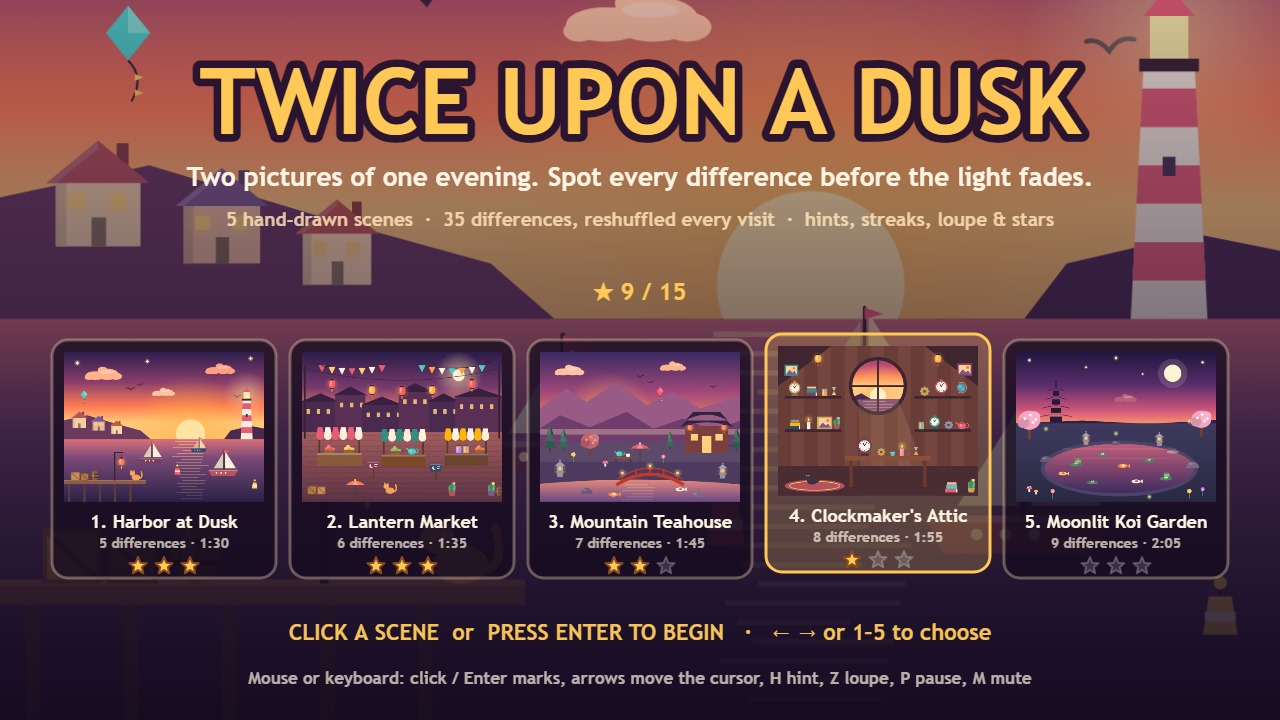
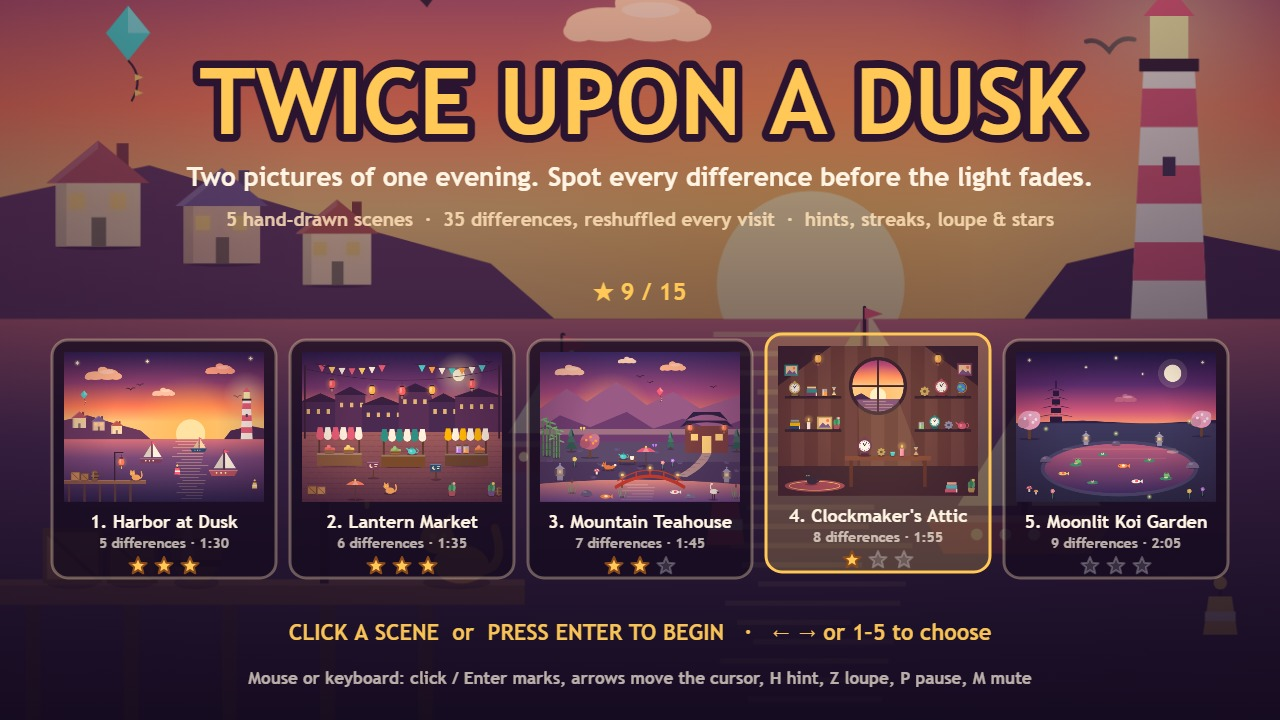
v2: denser teahouse scene (bamboo, fox, crane, reeds, butterflies, stone path), ground shadows, print vignette, softer hint ring, filled find marks

diff --git a/game/src/scenes.js b/game/src/scenes.js
@@ -46,6 +46,21 @@ function waterShimmer(c, x, top, bottom, color) {
   }
 }
 
+/** Little fans of grass blades at the given points (scenery: the same in both pictures). */
+function grassTufts(c, points, color = '#6d5a86') {
+  c.strokeStyle = color;
+  c.lineWidth = 1.6;
+  c.lineCap = 'round';
+  for (const [x, y] of points) {
+    c.beginPath();
+    for (let i = -2; i <= 2; i += 1) {
+      c.moveTo(x + i * 2, y);
+      c.lineTo(x + i * 4, y - 8 + Math.abs(i));
+    }
+    c.stroke();
+  }
+}
+
 function paintHarbor(c) {
   skyGradient(c, [[0, '#2d1f4f'], [0.35, '#8c3f6b'], [0.62, '#ff7b54'], [0.8, '#ffc778']], 262);
   sunDisc(c, 380, 246, 44, '#ffe3a3', '#ffb347');
@@ -139,6 +154,18 @@ function paintTeahouse(c) {
   c.lineTo(0, 450);
   c.fill();
   waterShimmer(c, 300, 392, 446, '#ffe2b8');
+  // Stone path from the teahouse door down to the bridge.
+  c.fillStyle = '#b48a8a';
+  c.beginPath();
+  c.moveTo(486, 304);
+  c.quadraticCurveTo(470, 340, 410, 372);
+  c.lineTo(440, 376);
+  c.quadraticCurveTo(500, 344, 514, 304);
+  c.closePath();
+  c.fill();
+  c.fillStyle = 'rgba(60,30,60,0.25)';
+  for (let i = 0; i < 6; i += 1) c.fillRect(492 - i * 15, 312 + i * 11, 18, 2);
+  grassTufts(c, [[30, 330], [120, 300], [180, 340], [230, 296], [300, 352], [350, 304], [420, 336], [560, 336], [590, 360], [160, 380]]);
   // The teahouse on the right: two curved roofs and a warm doorway.
   c.fillStyle = '#7a3f3f';
   c.fillRect(436, 222, 128, 82);
@@ -323,20 +350,25 @@ export function buildScene(id) {
       ] };
     case 'teahouse':
       return { paint: paintTeahouse, props: [
-        P('cloud', 90, 70, 0.8, '#ffc2a0'), P('cloud', 400, 56, 0.7, '#ffb38a'),
+        P('cloud', 90, 70, 0.8, '#ffc2a0'), P('cloud', 400, 56, 0.7, '#ffb38a'), P('cloud', 262, 34, 0.5, '#ffd0b0'),
         P('bird', 300, 80, 0.9, '#3a2233'), P('bird', 330, 96, 0.7, '#3a2233'), P('bird', 520, 110, 0.8, '#3a2233'),
         P('kite', 360, 150, 0.8, '#ff5d73'),
-        P('pine', 30, 300, 0.9, '#2f5a4f'), P('pine', 70, 296, 0.75, '#376a5a'), P('pine', 590, 300, 0.8, '#2f5a4f'),
-        P('pine', 390, 292, 0.6, '#376a5a'),
-        P('tree', 150, 314, 0.9, '#c2617a', '#ff9f43'),
+        P('bamboo', 20, 312, 1.0, '#5f9a5a'), P('bamboo', 50, 318, 0.82, '#6aa860'),
+        P('pine', 94, 300, 0.8, '#2f5a4f'), P('pine', 590, 300, 0.8, '#2f5a4f'), P('pine', 392, 292, 0.6, '#376a5a'),
+        P('tree', 150, 318, 0.95, '#c2617a', '#ff9f43'),
+        P('butterfly', 128, 236, 1.0, '#ffd166'), P('butterfly', 344, 286, 0.9, '#c77dff'),
         P('lantern', 450, 244, 0.75, '#ff7b54', '#ffd166'), P('lantern', 552, 244, 0.75, '#ff7b54', '#ffd166'),
-        P('bench', 250, 330, 1.0, '#8a4f3a'), P('teapot', 238, 314, 0.7, '#4ecdc4'), P('cup', 264, 316, 0.9, '#fff1dc'),
-        P('parasol', 300, 334, 1.1, '#e85d75'),
-        P('stoneLantern', 60, 376, 1.0, '#9a8fa8'), P('stoneLantern', 548, 380, 0.9, '#9a8fa8'),
-        P('bridge', 330, 404, 1.15, '#c0392b'),
-        P('rock', 140, 426, 1.0, '#6a5a7a'), P('rock', 470, 436, 0.9, '#7a6a8a'),
-        P('koi', 220, 436, 1.0, '#ff8c42', '#fff4e3'), P('koi', 420, 420, 0.9, '#fff4e3', '#ff5d5d'),
-        P('flower', 100, 330, 1.0, '#ffd166'), P('flower', 370, 334, 0.9, '#ff8fab'), P('mushroom', 196, 344, 1.0, '#e85d75'),
+        P('fox', 204, 356, 0.95, '#e8783c'),
+        P('bench', 262, 338, 1.0, '#8a4f3a'), P('teapot', 250, 322, 0.7, '#4ecdc4'), P('cup', 276, 324, 0.9, '#fff1dc'),
+        P('parasol', 318, 344, 1.1, '#e85d75'),
+        P('flower', 104, 344, 1.0, '#ffd166'), P('flower', 368, 352, 0.9, '#ff8fab'), P('flower', 398, 344, 0.8, '#c77dff'),
+        P('mushroom', 170, 368, 1.0, '#e85d75'),
+        P('stoneLantern', 60, 386, 1.0, '#9a8fa8'), P('stoneLantern', 560, 392, 0.9, '#9a8fa8'),
+        P('bridge', 330, 410, 1.15, '#c0392b'),
+        P('reeds', 96, 424, 1.0, '#7aa060'), P('reeds', 246, 436, 0.9, '#7aa060'), P('reeds', 588, 438, 1.0, '#7aa060'),
+        P('crane', 520, 444, 0.95, '#fff4e3'),
+        P('rock', 140, 432, 1.0, '#6a5a7a'), P('rock', 450, 440, 0.9, '#7a6a8a'),
+        P('koi', 196, 442, 1.0, '#ff8c42', '#fff4e3'), P('koi', 404, 428, 0.9, '#fff4e3', '#ff5d5d'),
       ] };
     case 'attic':
       return { paint: paintAttic, props: [

diff --git a/game/src/props.js b/game/src/props.js
@@ -476,6 +476,75 @@ export const KINDS = {
       glow(c, 0, -5, 9, p.color, 0.8);
       ellipse(c, 0, -5, 1.8, 1.8, '#fffbe0');
     } },
+  bamboo: { w: 34, h: 116, detail: 'top leaves',
+    draw(c, p) {
+      const stems = [[-10, 112], [0, 116], [10, 104]];
+      stems.forEach(([x, h], i) => {
+        box(c, x - 2.5, -h, 5, h, i === 1 ? p.color : shade(p.color, -0.12));
+        for (let y = -20; y > -h; y -= 22) box(c, x - 3.5, y, 7, 2, shade(p.color, -0.3));
+      });
+      c.fillStyle = shade(p.color, 0.15);
+      const leaf = (x, y, dir) => {
+        c.beginPath();
+        c.ellipse(x + dir * 9, y, 10, 3, dir * 0.35, 0, Math.PI * 2);
+        c.fill();
+      };
+      leaf(-10, -70, -1); leaf(10, -60, 1); leaf(0, -88, 1);
+      if (p.detail) { leaf(0, -110, -1); leaf(-10, -104, 1); leaf(10, -98, 1); }
+    } },
+  crane: { w: 36, h: 56, detail: 'red crown', flips: true,
+    draw(c, p) {
+      line(c, -2, 0, -3, -20, '#3a2233', 1.6);
+      line(c, 4, 0, 3, -20, '#3a2233', 1.6);
+      ellipse(c, 2, -26, 13, 8, p.color);
+      poly(c, [10, -28, 20, -22, 12, -22], '#3a2233');
+      c.strokeStyle = p.color;
+      c.lineWidth = 3.5;
+      c.lineCap = 'round';
+      c.beginPath();
+      c.moveTo(-6, -30);
+      c.quadraticCurveTo(-12, -44, -6, -50);
+      c.stroke();
+      ellipse(c, -5, -51, 4, 3.5, p.color);
+      poly(c, [-8, -51, -18, -49, -8, -49], '#e0a040');
+      if (p.detail) ellipse(c, -4, -54, 2.2, 1.6, '#e8364a');
+    } },
+  fox: { w: 44, h: 30, detail: 'white tail tip', flips: true,
+    draw(c, p) {
+      c.fillStyle = p.color;
+      c.beginPath();
+      c.ellipse(16, -12, 11, 5, -0.6, 0, Math.PI * 2);
+      c.fill();
+      if (p.detail) ellipse(c, 23, -17, 4, 3, '#fff4e3');
+      ellipse(c, 0, -10, 12, 7, p.color);
+      box(c, -8, -6, 3, 6, shade(p.color, -0.3));
+      box(c, 5, -6, 3, 6, shade(p.color, -0.3));
+      ellipse(c, -12, -17, 6.5, 5.5, p.color);
+      poly(c, [-17, -20, -16, -29, -11, -22], p.color);
+      poly(c, [-11, -22, -7, -29, -6, -19], p.color);
+      poly(c, [-17, -16, -24, -14, -16, -13], '#fff4e3');
+      ellipse(c, -13, -18, 1.2, 1.2, '#2a1830');
+    } },
+  reeds: { w: 26, h: 40, detail: 'cattail',
+    draw(c, p) {
+      [[-8, -30, -0.2], [0, -38, 0], [8, -28, 0.25], [-3, -24, -0.1]].forEach(([x, h, lean]) => {
+        line(c, x, 0, x + lean * 30, h, p.color, 2);
+      });
+      if (p.detail) {
+        c.fillStyle = '#7a4a2a';
+        c.beginPath();
+        c.ellipse(0, -36, 2.5, 6, 0, 0, Math.PI * 2);
+        c.fill();
+      }
+    } },
+  butterfly: { w: 16, h: 12, flips: true,
+    draw(c, p) {
+      ellipse(c, -4, -8, 4.5, 3.5, p.color);
+      ellipse(c, 4, -8, 4.5, 3.5, p.color);
+      ellipse(c, -3, -3, 3, 2.5, shade(p.color, -0.15));
+      ellipse(c, 3, -3, 3, 2.5, shade(p.color, -0.15));
+      line(c, 0, -11, 0, -1, '#2a1830', 1.4);
+    } },
   bunting: { w: 150, h: 30, detail: 'middle flag', fixed: true,
     draw(c, p) {
       c.strokeStyle = INK;
@@ -494,12 +563,17 @@ export const KINDS = {
     } },
 };
 
-/** Draws one prop in scene space, applying its position, scale and mirror. */
+/** Kinds that hang, fly, float or sit on a wall: they cast no ground shadow. */
+const UNGROUNDED = new Set(['cloud', 'bird', 'star', 'lantern', 'kite', 'firefly', 'bunting', 'butterfly', 'boat', 'buoy',
+  'koi', 'lily', 'frog', 'frame', 'bridge', 'lighthouse']);
+
+/** Draws one prop in scene space, applying its position, scale and mirror, with a soft shadow. */
 export function drawProp(c, prop) {
   const kind = KINDS[prop.kind];
   c.save();
   c.translate(prop.x, prop.y);
   c.scale(prop.flip ? -prop.s : prop.s, prop.s);
+  if (!UNGROUNDED.has(prop.kind)) ellipse(c, 0, -0.5, kind.w * 0.44, 3.2, 'rgba(25,8,30,0.3)');
   kind.draw(c, prop);
   c.restore();
 }

diff --git a/game/src/panels.js b/game/src/panels.js
@@ -13,6 +13,12 @@ export function paintPicture(paint, props, pixelScale) {
   c.scale(pixelScale, pixelScale);
   paint(c);
   for (const p of props) if (!p.hidden) drawProp(c, p);
+  // A soft warm vignette, identical in both pictures, frames each scene like a print.
+  const v = c.createRadialGradient(SCENE.width / 2, SCENE.height / 2, 160, SCENE.width / 2, SCENE.height / 2, 400);
+  v.addColorStop(0, 'rgba(40,10,40,0)');
+  v.addColorStop(1, 'rgba(40,10,40,0.32)');
+  c.fillStyle = v;
+  c.fillRect(0, 0, SCENE.width, SCENE.height);
   return canvas;
 }
 
@@ -32,6 +38,10 @@ function drawFoundMarker(c, d, now) {
   const sweep = Math.min(1, age / 0.35);
   const pop = age < 0.5 ? 1 + Math.sin((age / 0.5) * Math.PI) * 0.25 : 1;
   const r = d.r * pop;
+  c.fillStyle = `rgba(255, 209, 102, ${0.1 + Math.max(0, 0.35 - age) })`;
+  c.beginPath();
+  c.arc(d.x, d.y, r, 0, Math.PI * 2);
+  c.fill();
   c.lineCap = 'round';
   c.strokeStyle = 'rgba(30,12,30,0.7)';
   c.lineWidth = 8;
@@ -61,7 +71,7 @@ function drawFoundMarker(c, d, now) {
 /** The hint: a golden ring that closes in on the difference, then breathes until it is found. */
 function drawHintRing(c, d, age) {
   const close = Math.min(1, age / 0.8);
-  const r = d.r * (1.6 + (1 - close) * 3) + Math.sin(age * 6) * 3 * close;
+  const r = Math.min(d.r * 1.35 + 14, 80) * (1 + (1 - close) * 2.2) + Math.sin(age * 6) * 3 * close;
   c.save();
   c.setLineDash([10, 8]);
   c.lineDashOffset = -age * 40;

diff --git a/game/src/shots.js b/game/src/shots.js
@@ -17,7 +17,7 @@ function settle(effects, seconds) {
   for (let t = 0; t < seconds; t += 1 / 60) effects.update(1 / 60);
 }
 
-export function setupShot(name, game, effects) {
+export function setupShot(name, game, effects, sceneIndex = 2) {
   const state = game.state;
   switch (name) {
     case 'title':
@@ -54,7 +54,7 @@ export function setupShot(name, game, effects) {
     }
     case 'cover':
     default: {
-      game.startScene(2);
+      game.startScene(sceneIndex);
       state.screen = SCREEN.PLAY;
       state.journeyScore = 2850;
       findSome(game, 3, 9);

diff --git a/game/src/hud.js b/game/src/hud.js
@@ -74,7 +74,7 @@ function drawCounter(c, state) {
   c.translate(30, 664);
   c.scale(pop, pop);
   text(c, String(left), 0, 0, 76, left === 0 ? PALETTE.good : PALETTE.gold);
-  const numberWidth = c.measureText(String(left)).width - 8;
+  const numberWidth = c.measureText(String(left)).width + 2;
   c.restore();
   text(c, 'LEFT', 40 + numberWidth, 640, 30, PALETTE.paper);
   text(c, `${total - left} of ${total} differences found`, 40 + numberWidth, 666, 17, 'rgba(255,244,227,0.75)', 'left', 700);

diff --git a/game/src/main.js b/game/src/main.js
@@ -22,7 +22,7 @@ const input = attachInput({ canvas, game, audio, renderer });
 renderer.resize();
 window.addEventListener('resize', () => renderer.resize());
 
-if (shot) setupShot(shot, game, effects);
+if (shot) setupShot(shot, game, effects, Number(params.get('scene') ?? 2));
 
 let lastAnnounced = '';
 /** Keeps the screen-reader line in step with the hunt. */
